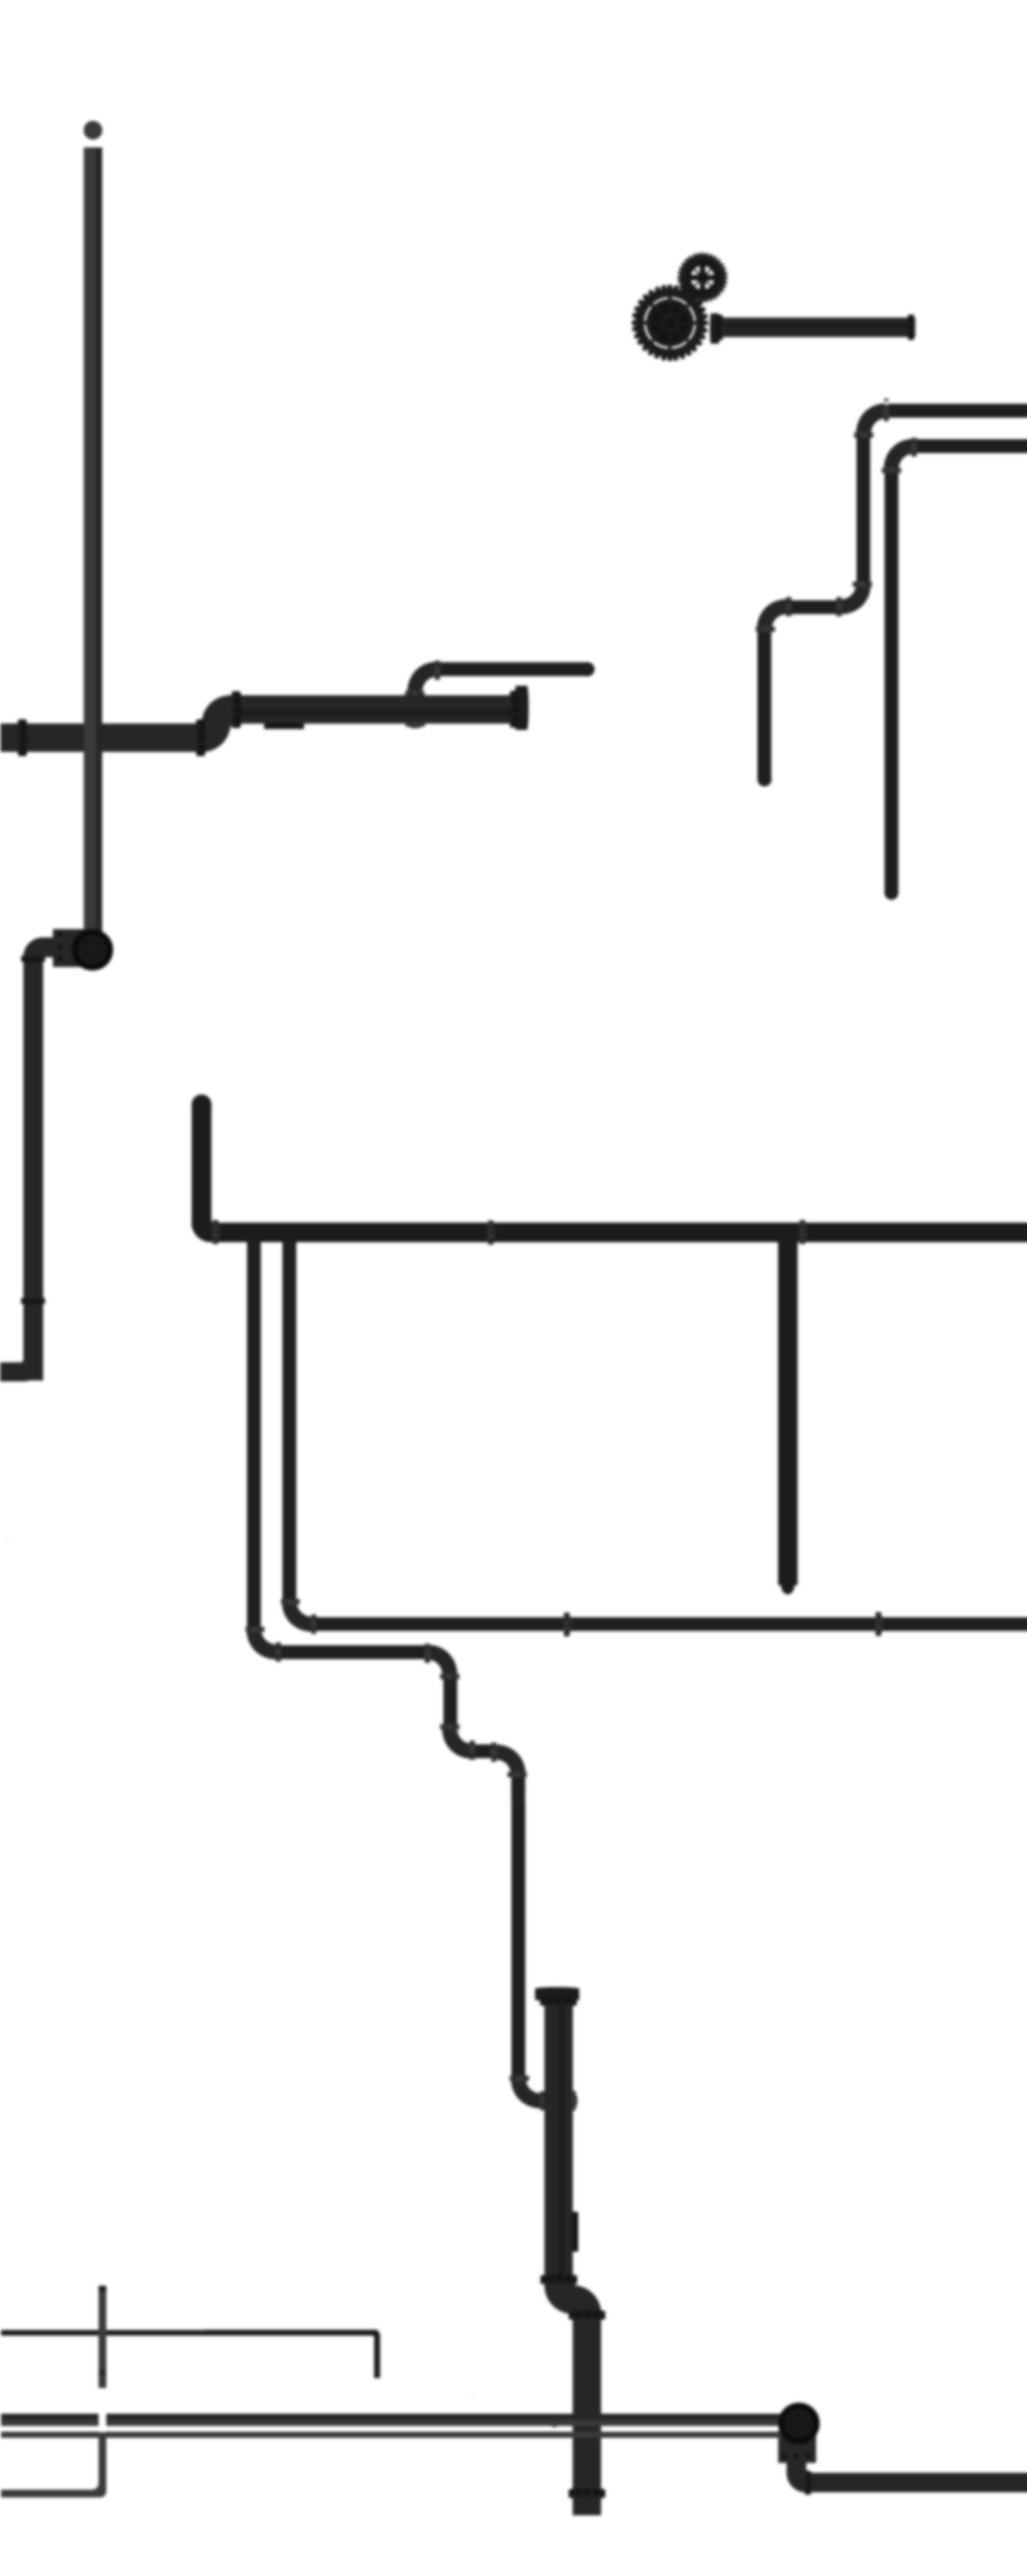
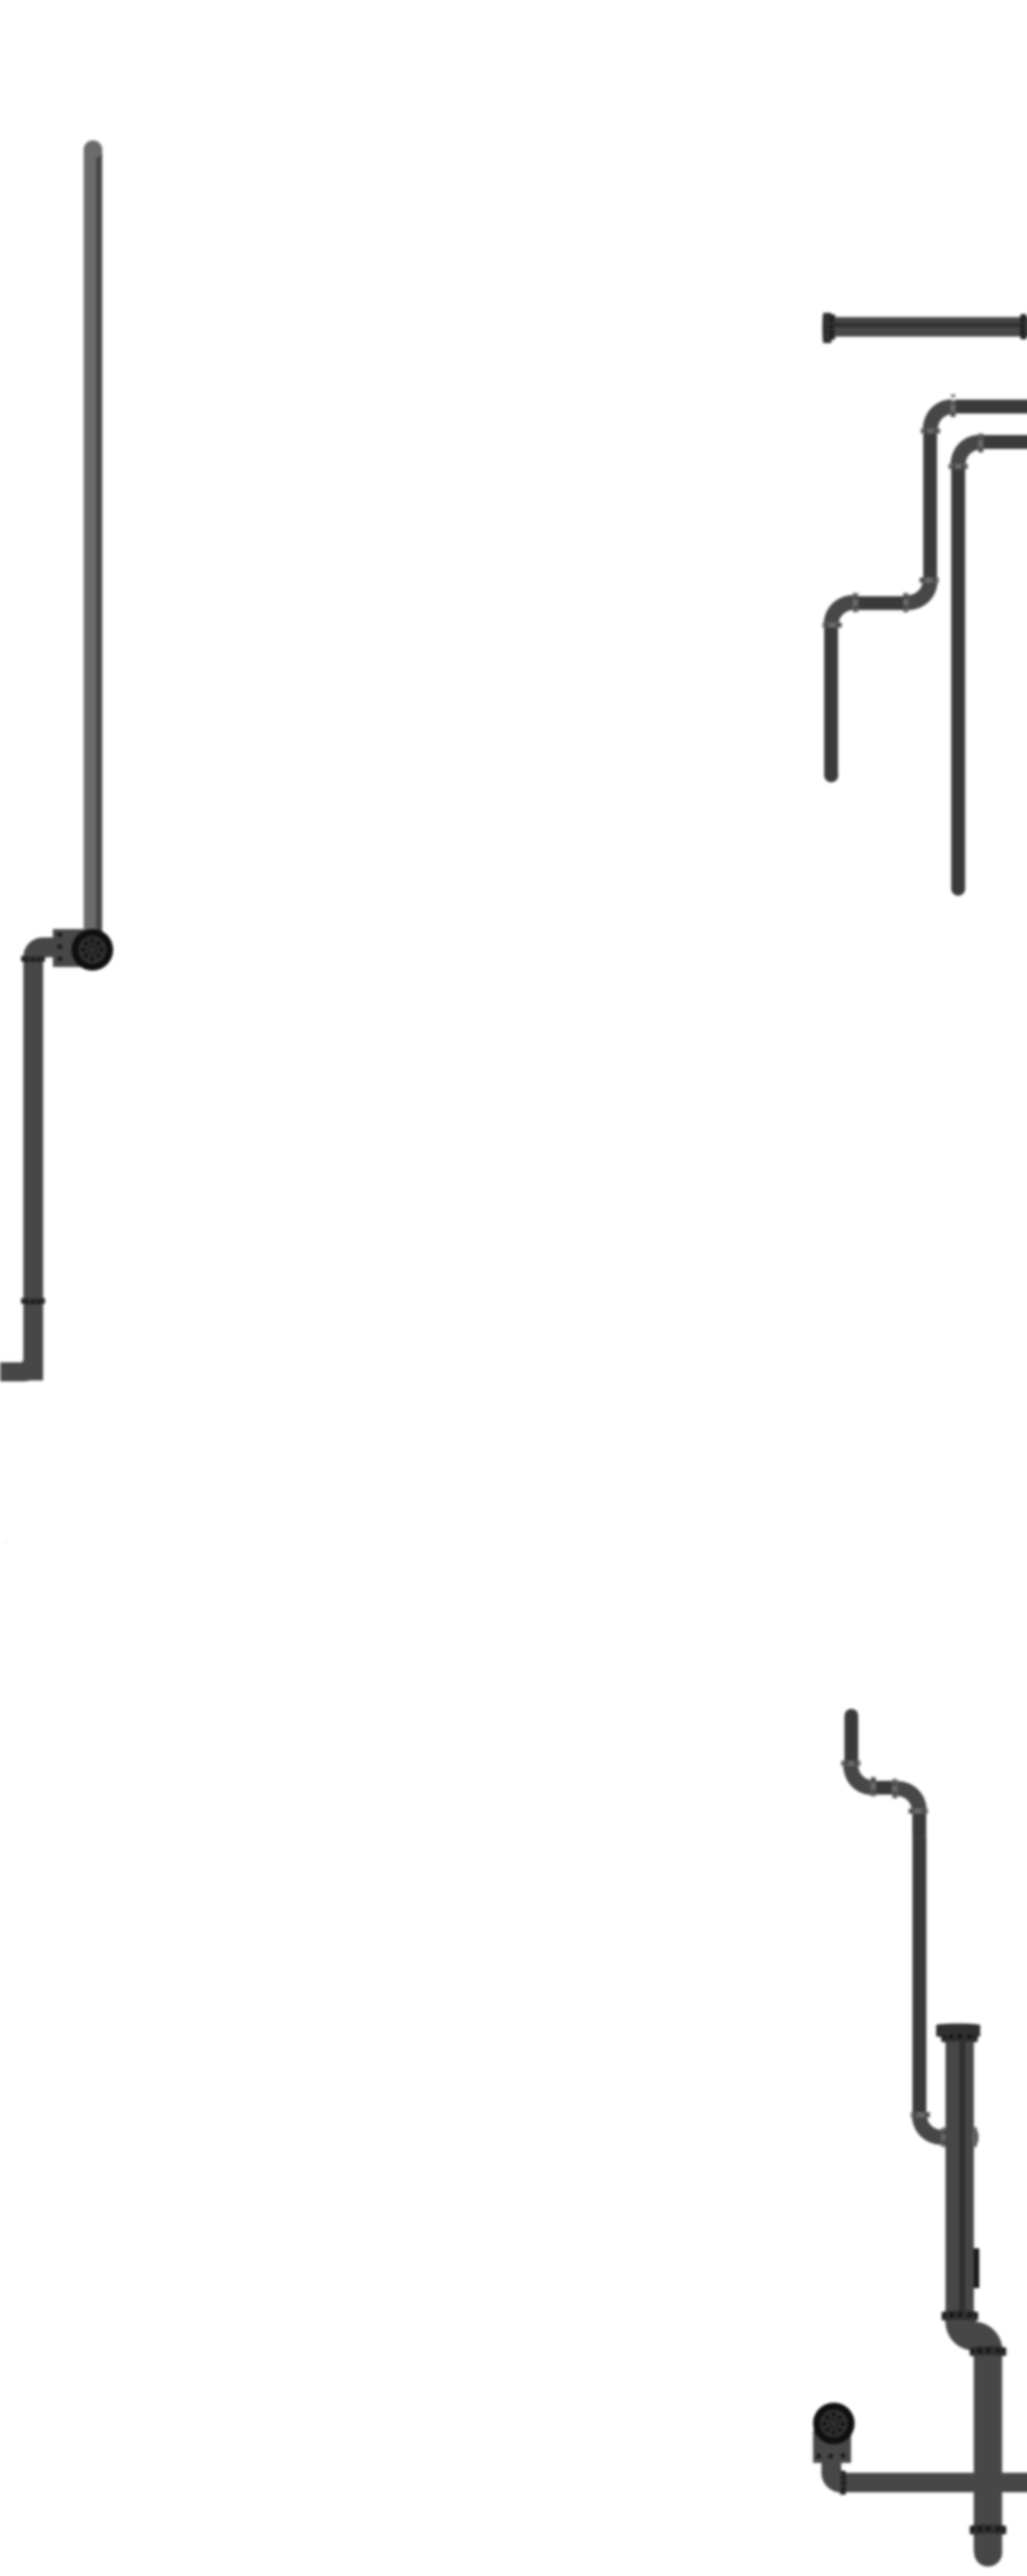
retrait bgd

Changed region(s): [[0.0, 0.4044, 1.0, 0.9954], [0.62, 0.0933, 1.0, 0.3422], [0.0, 0.0311, 0.589, 0.5599]]

diff --git a/css/style.css b/css/style.css
@@ -1450,16 +1450,26 @@ button:focus {
   width: 0; }
 
 main {
-  background-image: url("../images/dechets2.svg");
+  background-image: url("../images/dechets2.svg"), url("../images/background-4.png");
   background-repeat: no-repeat, no-repeat;
   background-position: right bottom, top left;
   background-size: 55rem,cover; }
+
+.shadow {
+  width: 25rem;
+  height: 4rem;
+  position: fixed;
+  top: 0;
+  left: 0;
+  -webkit-box-shadow: 0 10px 300px white;
+  box-shadow: 0 10px 300px white; }
 
 .parallax-container {
   position: absolute;
   width: 100%;
   top: 52px;
-  overflow: hidden; }
+  overflow: hidden;
+  z-index: -1; }
 
 .parallax {
   position: absolute;
@@ -1699,6 +1709,8 @@ footer {
   ovev-rflow: hidden; }
 
 @media screen and (max-width: 1000px) {
+  .shadow {
+    display: none; }
   #canvas {
     display: none; }
   .push_btn {

diff --git a/css/style.scss b/css/style.scss
@@ -268,10 +268,19 @@ button:focus {
 
 main{
 	
-	background-image: url("../images/dechets2.svg");
+	background-image: url("../images/dechets2.svg"), url('../images/background-4.png');
 	background-repeat: no-repeat, no-repeat;
 	background-position:  right bottom, top left;
 	background-size: 55rem,cover;
+}
+
+.shadow{
+	width: 25rem;
+	height: 4rem;
+	position: fixed;
+	top: 0;
+	left: 0;
+	box-shadow:  0 10px 300px white;
 }
 
 .parallax-container {
@@ -279,6 +288,7 @@ main{
   width: 100%;
   top: 52px;
   overflow: hidden;
+  z-index: -1;
 
 }
 

diff --git a/index.html b/index.html
@@ -13,11 +13,12 @@
 <body onload="init();">
 
 <script src="https://code.createjs.com/createjs-2015.11.26.min.js"></script>
-<div class="parallax-container">
+<!--<div class="parallax-container hidden">
 <div class="parallax tubes1"></div>
 <div class="parallax tubes2"></div>
 <div class="parallax tubes3"></div>
-</div>
+</div>-->
+<div class="shadow"></div>
 
 <div class="container-global-cache">
 

diff --git a/js/javascript.js b/js/javascript.js
@@ -7,6 +7,8 @@
 
 		$('main').removeClass("main-cache");
 		$('.presentation').removeClass("hidden");
+		$('.parallax-container').removeClass("hidden");
+
 		$('#yeux').removeClass("hidden");
 		$('html').css('overflow-y', 'visible');
 

diff --git a/css/media.scss b/css/media.scss
@@ -1,5 +1,9 @@
 
 @media screen and (max-width: 1000px){
+
+		.shadow{
+			display: none;
+		}
 		
 		#canvas{
 			display: none;
